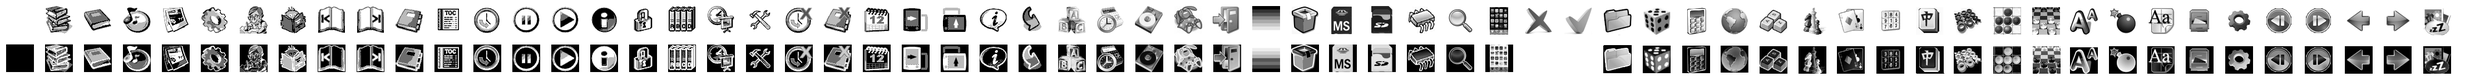
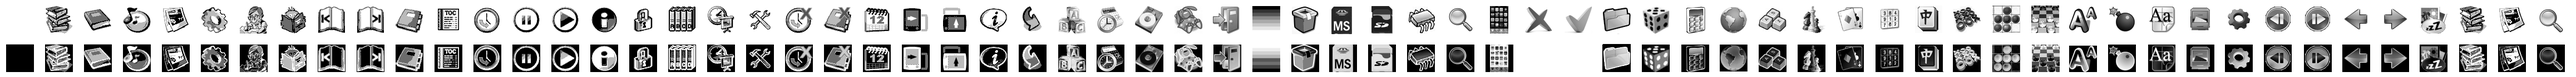
SimEngine: new _Core.system.doBubble() inspired from StandardActions_x50.js         allows simulated key-actions in any context, not only "document".         So Custom-Dialog in MineSweeper can now be controlled in NonTouch mode.         (It always was working on the real device that way)

diff --git a/eBookSim/core/core__system.js b/eBookSim/core/core__system.js
@@ -12,6 +12,7 @@
 //	2010-04-25 kartu - Fixed minor syntax glitch: removed trailing comma
 //	2010-04-27 kravitz - Added getFastBookMedia()
 //	2010-08-15 Mark Nord use compile for getSoValue and cloneObj
+//	2011-11-06 Mark Nord Added doBubble()
 
 try {
 	var getInstance = prsp.compile('propName',"var s,v,i;s = propName.split('.');v = s.shift();i = this;while (v) {i = i[v];v = s.shift();}return i;");
@@ -111,6 +112,20 @@ try {
 				book._media = Core.system.getSoValue(book, "media");
 			}
 			return book._media;
+		},
+		doBubble : function(target, cmd, param) {
+			var currentNode, focus;
+			//target.bubble('tracelog','enter doBubble');
+			focus = target.getWindow().focus;
+			//target.bubble('tracelog','focus '+focus)
+			//target.bubble('tracelog',Core.debug.dumpToString(focus,"focus.",2));
+			if (focus) {
+				try {
+					focus.bubble(cmd, param);
+				} catch (e) {
+					log.error("in doBubble, command " + cmd, e);
+				}
+			}
 		}
 	};
 

diff --git a/eBookSim/core/compat/Sim_config.js b/eBookSim/core/compat/Sim_config.js
@@ -16,7 +16,7 @@
 //		Sudoku by Obelix
 //		Dictionary by Clemenseken, lysak, m-land, Mark Nord
 //	2011-04-01 Mark Nord - adapted for Sim
-
+//  2011-10-19 Ben Chenoweth - Added ALT icons
 return {
 	// Menu icon indices 
 	NodeKinds: {
@@ -34,7 +34,7 @@ return {
 		BOOKMARK: 10,
 		NOTES: 10,
 		LIST: 11,
-		BOOK_HISTORY: 11,
+		BOOK_HISTORY: 1, // 11
 		CLOCK: 12,
 		PAUSE: 13,
 		PLAY: 14,
@@ -83,6 +83,10 @@ return {
 		NEXT_SONG: 59,
 		PREVIOUS: 60,
 		NEXT: 61,
+		
+		BOOK_ALT: 63,
+		PICTURE_ALT: 64,
+		SEARCH_ALT: 65,
 		
 		DEFAULT: 41,
 		

diff --git a/eBookSim/_PRSPlus.js b/eBookSim/_PRSPlus.js
@@ -162,6 +162,7 @@ _Core.system.setSoValue = prsp.setSoValue;
 _Core.system.getSoValue = getSoValue;
 _Core.system.getFastSoValue =  getSoValue(theRoot,'Core.system.getFastSoValue');
 _Core.system.rootObj = getSoValue(theRoot,'Core.system.rootObj');
+_Core.system.doBubble = getSoValue(theRoot,'Core.system.doBubble');
 //target.bubble('tracelog','done system');
 
 _Core.text.trim = getSoValue(theRoot,'Core.text.trim');

diff --git a/eBookSim/prsp.js b/eBookSim/prsp.js
@@ -184,7 +184,7 @@
 		} catch (e1) {
 			bootLog("FATAL: failed to call bootstrap " + e1); 
 		}
-/*		bootLog(Core.debug.dumpToString(Core,'Core.',2)); 	
+	/*	bootLog(Core.debug.dumpToString(Core,'Core.',2)); 	
 		bootLog(Core.debug.dumpToString(this,'this.',1)); 	*/
 	};
 	try {
